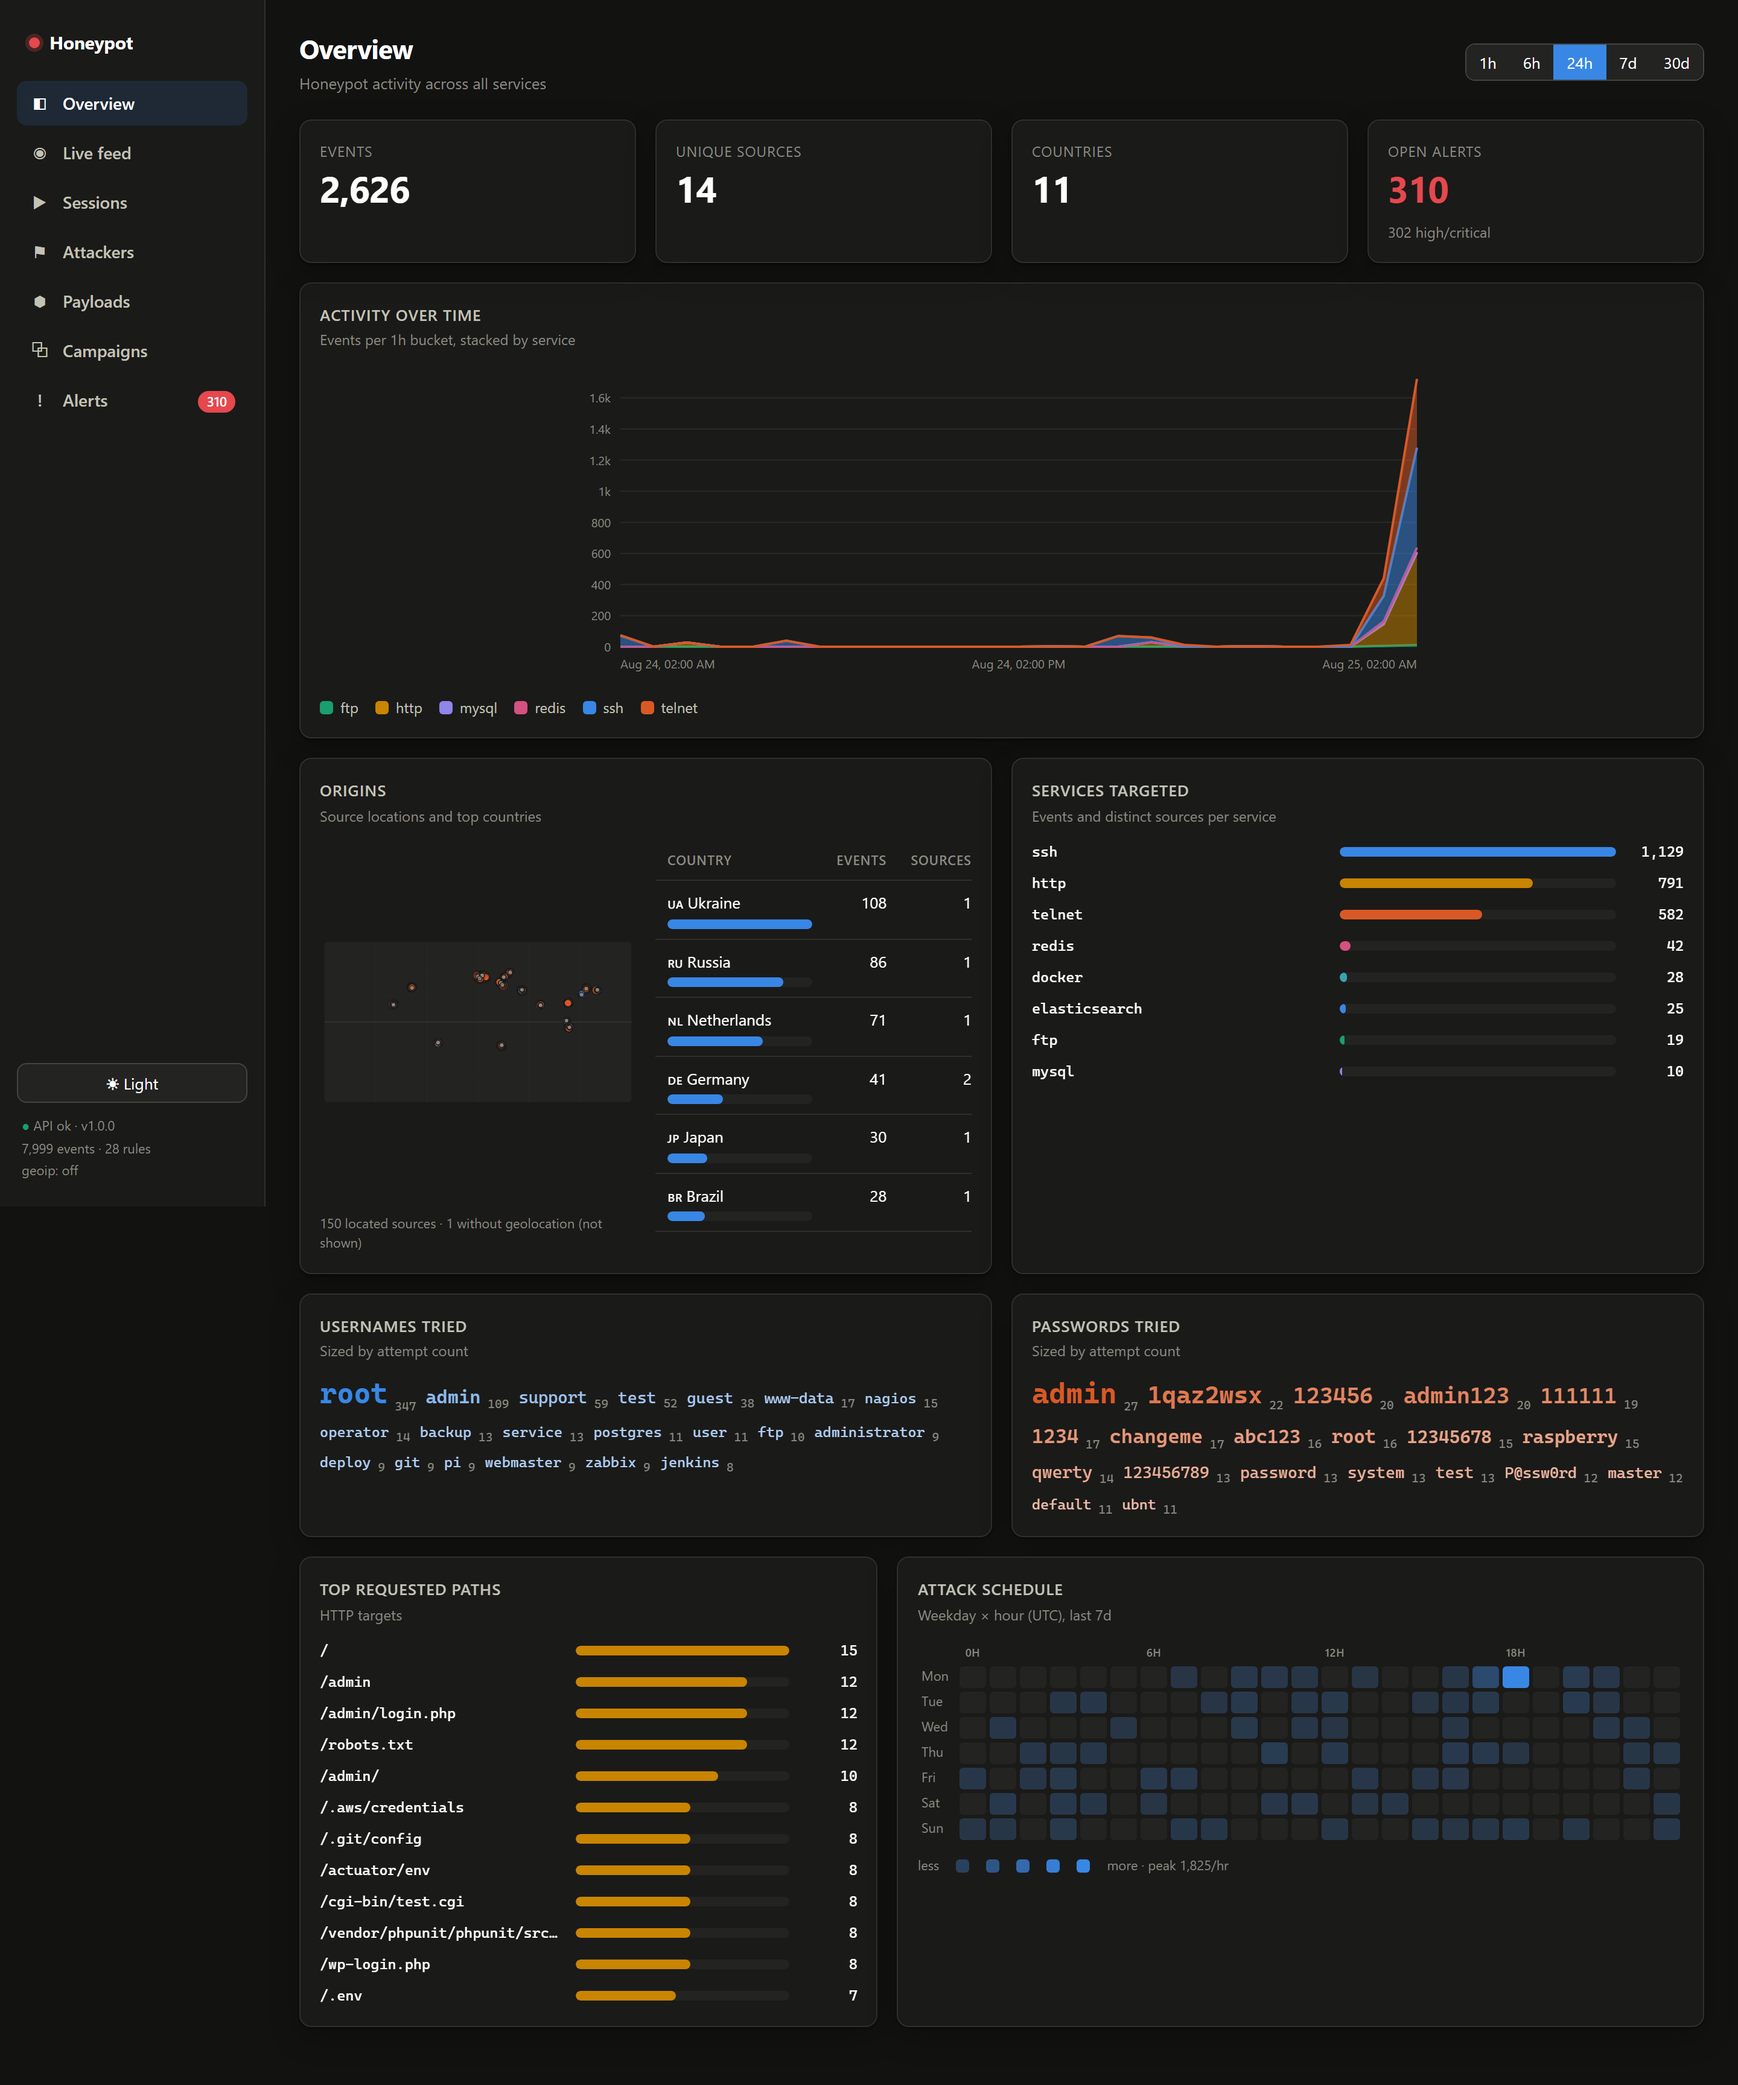
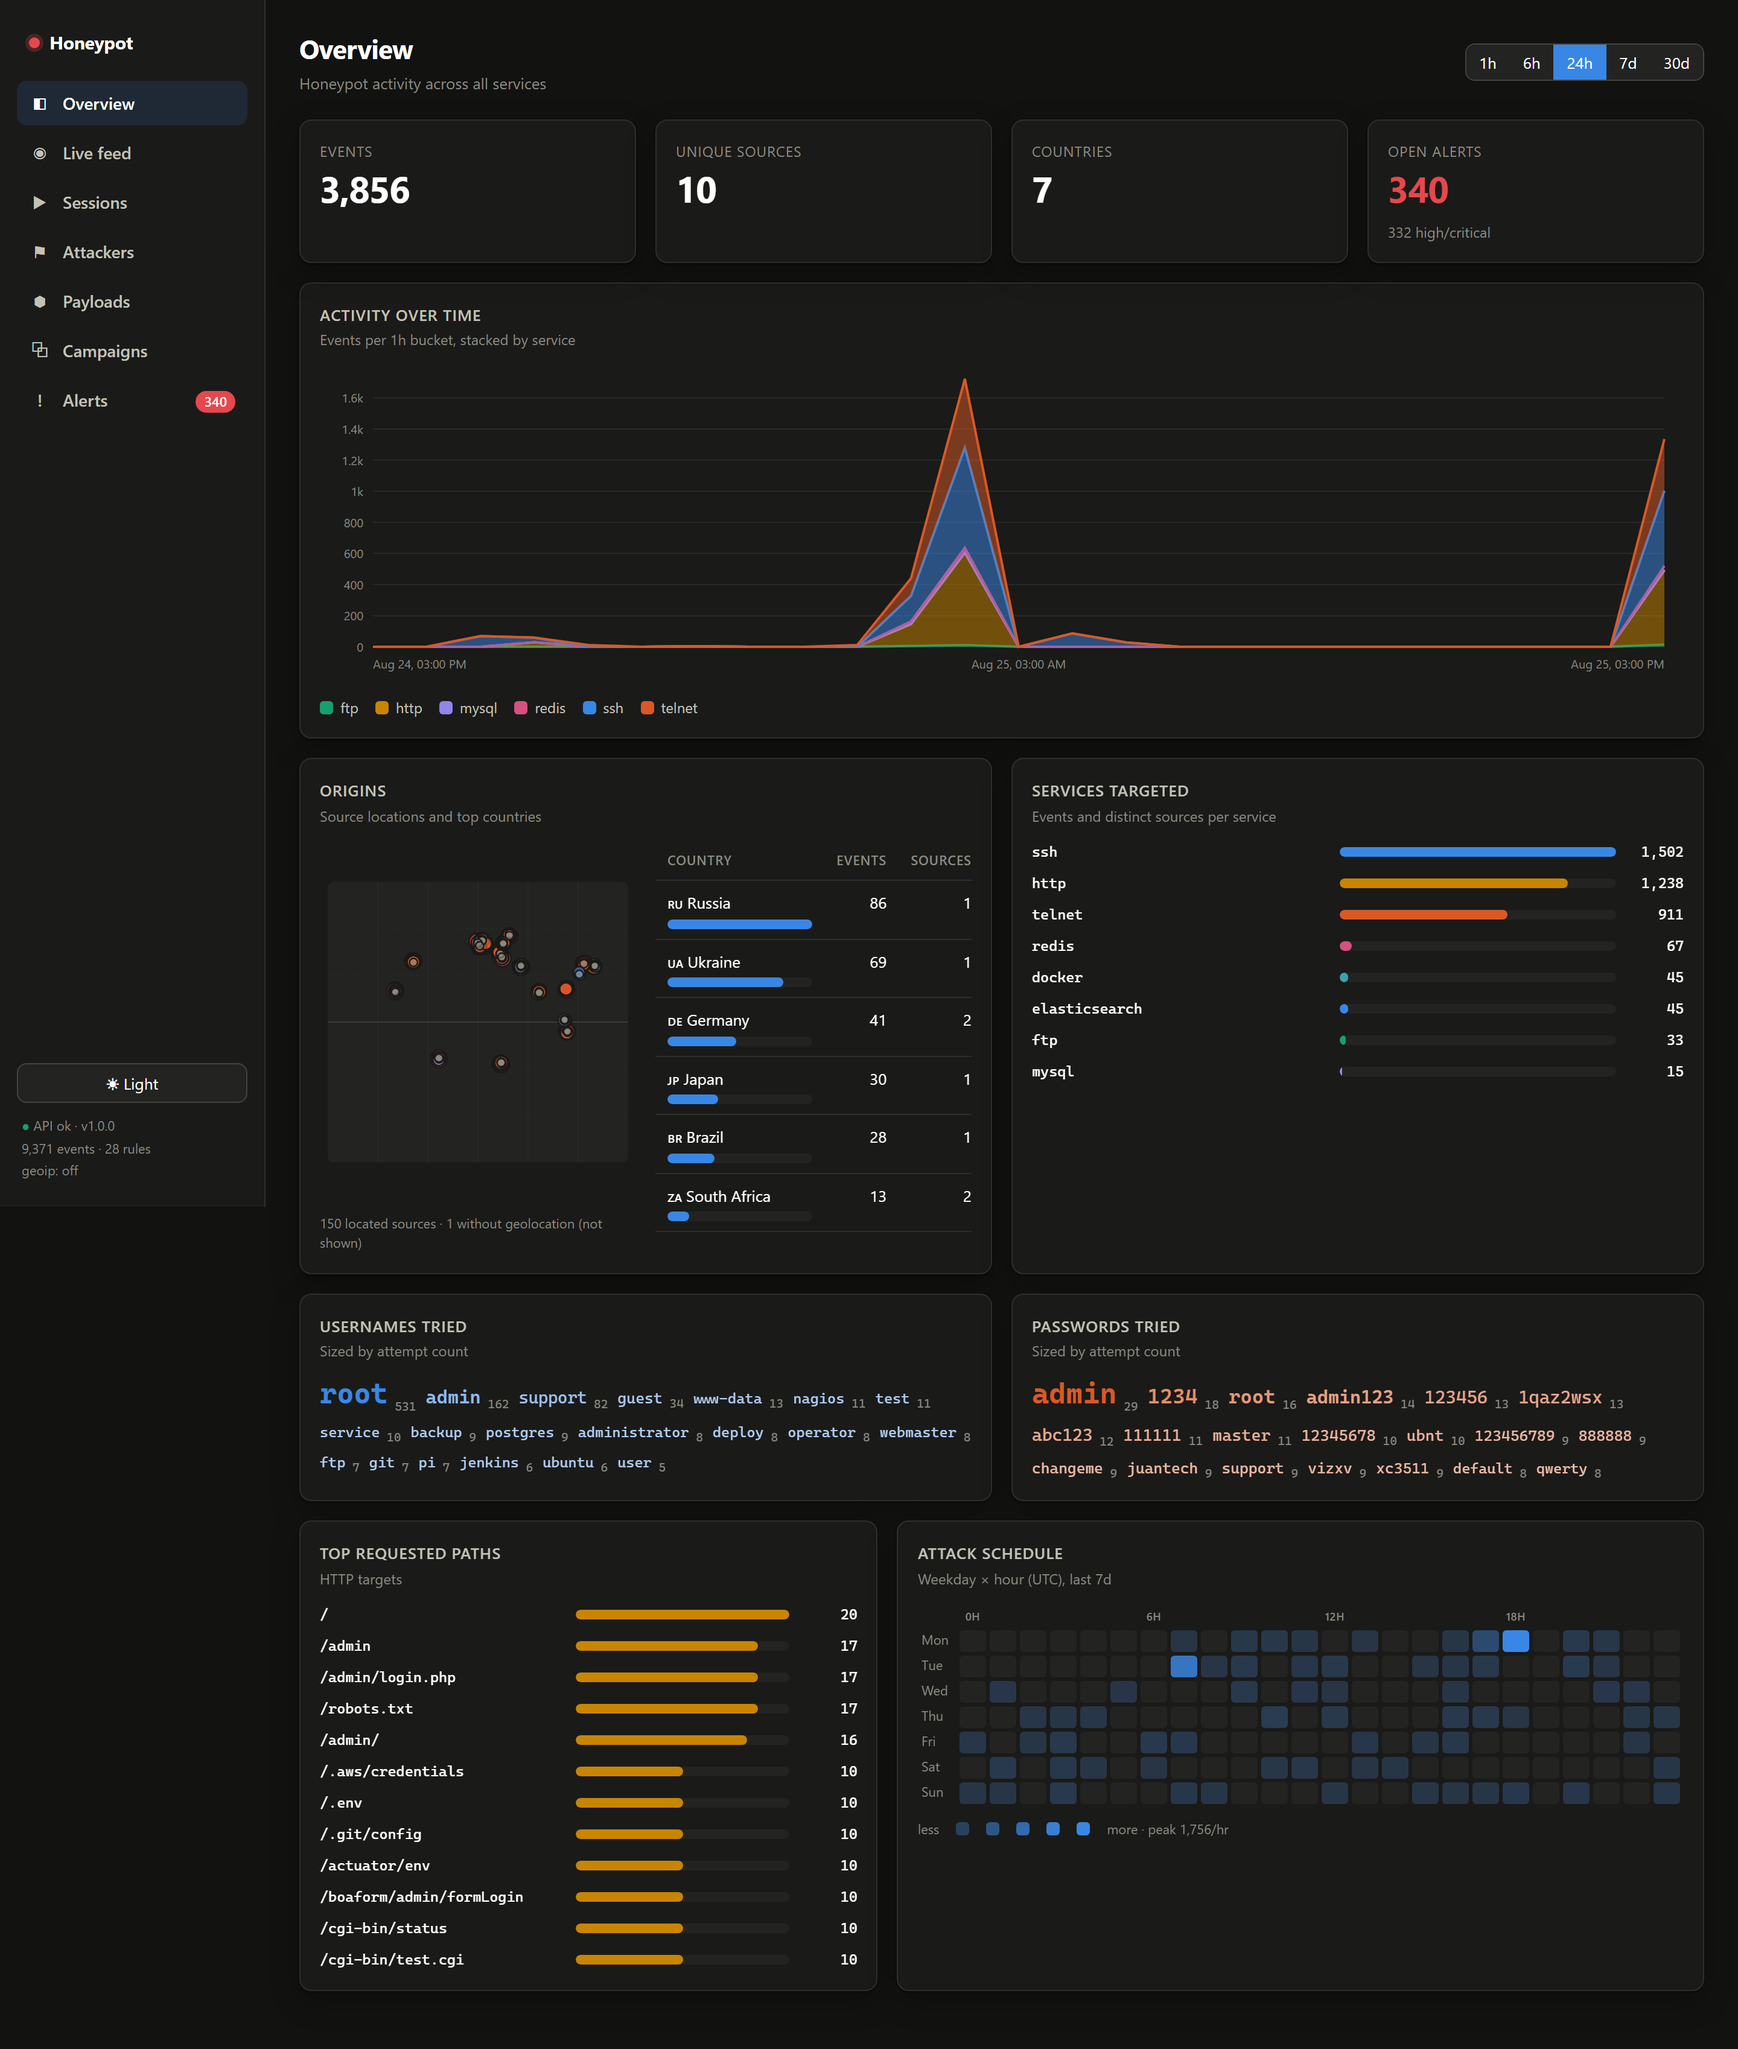
Expand local attack-run evidence (9.3k events, wider exploit battery)

diff --git a/docs/evidence/local-run-2026-08-25.md b/docs/evidence/local-run-2026-08-25.md
@@ -16,24 +16,24 @@ FastAPI backend.
 
 | Wave | Source | Vector |
 |------|--------|--------|
-| Test client ×4 | `attacker/` scenarios | SSH credential stuffing, Mirai telnet loader, slow-and-low HTTP, web path scan |
-| Exploit battery | loopback | Log4Shell (header + query), Shellshock, SQLi, path traversal, webshell upload, secret-file probes (`.env`/`.git`/`.aws`), `phpunit` RCE, Solr, Actuator |
-| Redis RCE chain | loopback | `INFO`/`CONFIG GET`, `CONFIG SET dir`+`dbfilename`, `SLAVEOF`, `MODULE LOAD`, `SAVE` |
-| Docker takeover | loopback | version + image enumeration, privileged host-mount container create/start, cryptominer image pull |
-| Elasticsearch | loopback | root banner, `_cat/indices`, `_search?q=password`, cluster health |
-| MySQL / FTP | loopback | handshake capture, FTP bounce (`PORT`) attempt |
+| Test client ×7 | `attacker/` scenarios | SSH credential stuffing, Mirai telnet loader, slow-and-low HTTP, web path scan |
+| Exploit battery | loopback | Log4Shell (header/query, `ldap`/`rmi`/`dns`), Shellshock (UA/Referer/Cookie), SQLi (union/stacked/`load_file`), traversal (plain + `%2e`/overlong-UTF8), LFI wrappers, Spring4Shell, webshell upload (php + jsp), secret-file probes (`.env`/`.git`/`.ssh`/`.aws`), `phpunit`/Solr/Actuator |
+| Redis RCE chain | loopback | `CONFIG SET dir`+`dbfilename`, cron-persistence write, `SAVE`, `MODULE LOAD`, `SLAVEOF` |
+| Docker takeover | loopback | info + image enumeration, privileged host-mount / `nsenter` / host-PID container create, `exec`, start, cryptominer image |
+| Elasticsearch | loopback | recon (`_nodes`/`_cat`/`_cluster`), Groovy-RCE probe, `_search?q=password` |
+| MySQL / FTP | loopback | handshake capture, FTP bounce (`PORT`) + `LIST` attempt |
 
 ## What the sensor captured
 
-**7,999 events · 308 sessions · 151 sources · 310 alerts · 7 campaigns.** The local
-test source `127.0.0.1` alone produced **2,214 events across all eight services**:
+**9,371 events · 1,082 sessions · 151 sources · 340 alerts · 7 campaigns.** The local
+test source `127.0.0.1` alone produced **3,586 events across all eight services**:
 
 | service | events | service | events |
 |---------|-------:|---------|-------:|
-| ssh | 806 | docker | 28 |
-| http | 733 | elasticsearch | 25 |
-| telnet | 554 | ftp | 16 |
-| redis | 42 | mysql | 10 |
+| ssh | 1,289 | docker | 45 |
+| http | 1,209 | elasticsearch | 45 |
+| telnet | 886 | ftp | 30 |
+| redis | 67 | mysql | 15 |
 
 ## Detection — 22 of 28 rules fired
 
@@ -57,9 +57,9 @@ matching rules directly:
 ## Evidence
 
 ### Overview
-2,626 events in the 24h window, all eight services, peak 1,825 events/hr, and the
-exploit probes surfaced in the top requested paths (`/vendor/phpunit/...`,
-`/wp-login.php`, `/.aws/credentials`, `/.git/config`, `/actuator/env`).
+3,856 events in the 24h window, all eight services, peak 1,756 events/hr, and the
+exploit probes surfaced in the top requested paths (`/.aws/credentials`, `/.env`,
+`/.git/config`, `/actuator/env`, `/cgi-bin/status`).
 
 ![Overview](local-run-2026-08-25/01-overview.png)
 
